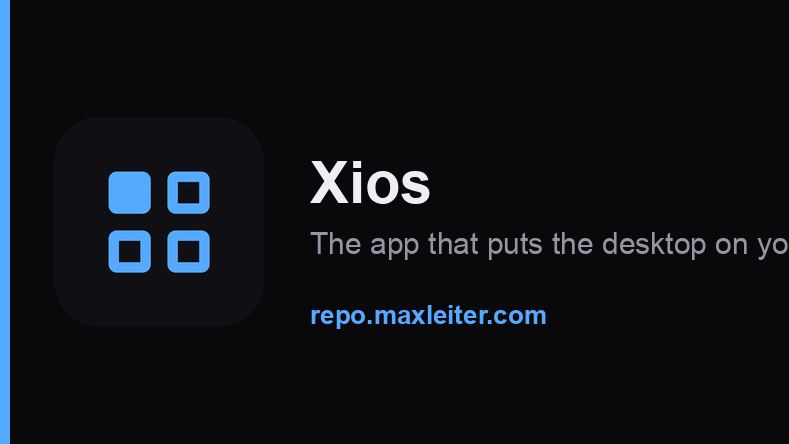
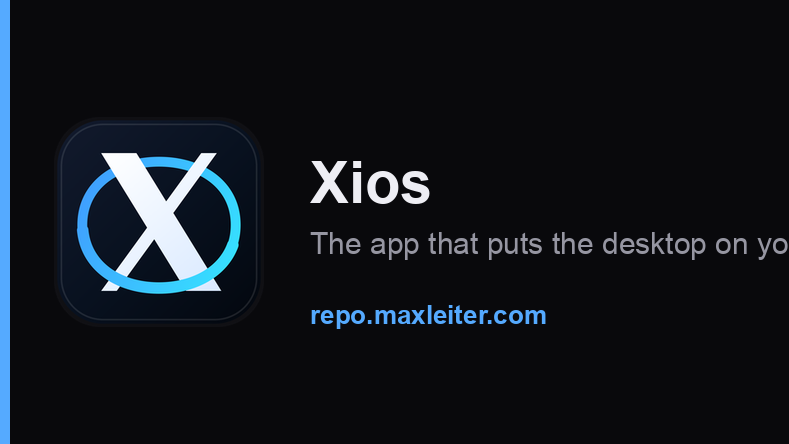
feat: add X11-inspired Xios identity

diff --git a/repo/index.html b/repo/index.html
@@ -12,7 +12,7 @@
 <meta property="og:url" content="https://repo.maxleiter.com/">
 <meta property="og:image" content="https://repo.maxleiter.com/CydiaIcon.png">
 <meta name="twitter:card" content="summary">
-<link rel="icon" href="favicon.ico"><link rel="stylesheet" href="site.css">
+<link rel="icon" href="favicon.ico" sizes="16x16 32x32 48x48"><link rel="icon" href="favicon.svg" type="image/svg+xml"><link rel="icon" href="favicon-32x32.png" sizes="32x32" type="image/png"><link rel="apple-touch-icon" href="apple-touch-icon.png"><link rel="manifest" href="site.webmanifest"><link rel="stylesheet" href="site.css">
 <script>
   (function () {
     try {

diff --git a/bin/lib/make-repo.py b/bin/lib/make-repo.py
@@ -5,7 +5,7 @@ Outputs in repo/:
   Packages, Packages.gz, Release      package index (+ rich fields)
   index.html                          themed landing page
   robots.txt, sitemap.xml             search-engine discovery
-  CydiaIcon.png, favicon.ico          repo icon (from maxleiter.com favicon)
+  favicon.svg/.ico/.png, touch icons  X11-inspired repo identity
   icons/<pkg>.png                     per-package icon
   banners/<pkg>.png                   featured banner
   depictions/<pkg>.json               Sileo native depiction
@@ -25,6 +25,8 @@ Two modes:
                  CI can rebuild and sign the index from a plain checkout while
                  the payloads live immutably in Blob. Leaves repo/Packages and
                  the tracked icons/banners byte-identical.
+  --identity-only regenerate just the favicon, touch/repo icons, and manifest
+                  from x11/apps/Xios/assets/xios-mark.svg.
 
 Both modes prune per-package assets whose package left the index; see
 prune_orphan_assets.
@@ -59,16 +61,17 @@ APP_SECTION_PACKAGES = {
 }
 
 # ── identity / theme ─────────────────────────────────────────────────────────
-BASE_URL    = "https://repo.maxleiter.com"
+BASE_URL    = os.environ.get("XIOS_REPO_BASE_URL", "https://repo.maxleiter.com")
 REPO_NAME   = "Max's Repo"
 ORIGIN      = REPO_NAME
 DESCRIPTION = "Jailbreak packages by Max"
-ARCH        = "iphoneos-arm64"
+ARCH        = "iphoneos-arm64" if PROFILE == "rootless" else "iphoneos-arm"
 PUBLISHER   = "Max Leiter <maxwell.leiter@gmail.com>"
 ACCENT      = (85, 170, 255)      # #55aaff (maxleiter.com brand blue)
 ACCENT_HEX  = "#55aaff"
 ICON_BG     = (16, 16, 20)
-FAVICON_SRC = os.path.expanduser("~/Documents/maxleiter.com/public/favicons")
+REPO_ICON_SOURCE = os.path.abspath(os.path.join(
+    HERE, "..", "..", "x11", "apps", "Xios", "assets", "xios-mark.svg"))
 
 try:
     from PIL import Image, ImageDraw, ImageFont
@@ -491,8 +494,10 @@ RSVG_CONVERT = shutil.which("rsvg-convert")
 # dark rounded tile the generated glyphs use, so real + generated icons sit
 # together without looking mismatched.
 def _load_logo_source(pid, px):
-    for ext in ("svg", "png"):
-        path = os.path.join(LOGO_SOURCES, f"{pid}.{ext}")
+    candidates = ([(REPO_ICON_SOURCE, "svg")] if pid == "com.max.xios" else
+                  [(os.path.join(LOGO_SOURCES, f"{pid}.{ext}"), ext)
+                   for ext in ("svg", "png")])
+    for path, ext in candidates:
         if not os.path.exists(path):
             continue
         if ext == "svg":
@@ -506,6 +511,71 @@ def _load_logo_source(pid, px):
             return Image.open(io.BytesIO(out.stdout)).convert("RGBA")
         return Image.open(path).convert("RGBA")
     return None
+
+def _render_svg(path, px):
+    if not HAVE_PIL or not RSVG_CONVERT or not os.path.exists(path):
+        return None
+    out = subprocess.run(
+        [RSVG_CONVERT, "-w", str(px), "-h", str(px), path],
+        stdout=subprocess.PIPE, stderr=subprocess.DEVNULL)
+    if out.returncode != 0:
+        return None
+    return Image.open(io.BytesIO(out.stdout)).convert("RGBA")
+
+def generate_repo_identity(render_rasters=False):
+    """Install the vector identity and, on authoring hosts, its raster family."""
+    shutil.copyfile(REPO_ICON_SOURCE, os.path.join(REPO, "favicon.svg"))
+    manifest = {
+        "name": REPO_NAME,
+        "short_name": "Xios Repo",
+        "icons": [
+            {"src": "icon-192.png", "sizes": "192x192", "type": "image/png"},
+            {"src": "icon-512.png", "sizes": "512x512", "type": "image/png"},
+        ],
+        "theme_color": "#0a0a0b",
+        "background_color": "#0a0a0b",
+        "display": "standalone",
+    }
+    with open(os.path.join(REPO, "site.webmanifest"), "w") as f:
+        json.dump(manifest, f, indent=2)
+        f.write("\n")
+
+    if not render_rasters:
+        return
+    master = _render_svg(REPO_ICON_SOURCE, 512)
+    if master is None:
+        raise SystemExit("ERROR: repo identity raster generation needs Pillow and rsvg-convert")
+    for filename, size in (
+        ("favicon-16x16.png", 16),
+        ("favicon-32x32.png", 32),
+        ("apple-touch-icon.png", 180),
+        ("CydiaIcon.png", 180),
+        ("icon-192.png", 192),
+        ("icon-512.png", 512),
+    ):
+        master.resize((size, size), Image.LANCZOS).save(os.path.join(REPO, filename))
+    master.save(os.path.join(REPO, "favicon.ico"), format="ICO",
+                sizes=[(16, 16), (32, 32), (48, 48)])
+
+    # Keep the package-manager depiction in the same identity family as the
+    # actual Home Screen app, rather than falling back to the Desktop glyph.
+    os.makedirs(os.path.join(REPO, "icons"), exist_ok=True)
+    os.makedirs(os.path.join(REPO, "banners"), exist_ok=True)
+    xios_icon = package_icon("com.max.xios", "Desktop", 256)
+    xios_icon.save(os.path.join(REPO, "icons", "com.max.xios.png"))
+    xios_ctrl = {}
+    packages_path = os.path.join(REPO, "Packages")
+    if os.path.exists(packages_path):
+        _, ctrls = parse_packages_index(packages_path)
+        xios_ctrl = next((c for c in ctrls if c.get("Package") == "com.max.xios"), {})
+    xios_meta = load_meta("com.max.xios")
+    make_banner(
+        os.path.join(REPO, "banners", "com.max.xios.png"),
+        package_name(xios_ctrl, xios_meta) if xios_ctrl else "Xios",
+        xios_meta.get("tagline", xios_ctrl.get(
+            "Description", "The app that puts the desktop on your screen")),
+        xios_icon,
+    )
 
 def package_icon(pid, section, px=256):
     s = 4; S = px * s
@@ -719,7 +789,7 @@ def html_depiction(ctrl, meta, size):
     return f"""<!doctype html><html lang="en"><head><meta charset="utf-8">
 <meta name="viewport" content="width=device-width, initial-scale=1">
 <meta name="theme-color" content="#000000">
-{seo_head(ctrl, meta)}<link rel="icon" href="../favicon.ico">{head_links("../")}{HEAD_JS}</head>
+{seo_head(ctrl, meta)}{favicon_links("../")}{head_links("../")}{HEAD_JS}</head>
 <body><div class="wrap">
   <a class="back" href="../index.html">{BACK_SVG}<span>{html.escape(ORIGIN)}</span></a>
   <header class="masthead"><img src="../icons/{pid}.png" alt="">
@@ -735,6 +805,15 @@ def head_links(prefix=""):
     # inlined into every page. Fonts are self-hosted via @font-face inside it, so the
     # site makes no third-party (Google Fonts) requests.
     return f'<link rel="stylesheet" href="{prefix}site.css">'
+
+def favicon_links(prefix=""):
+    return (
+        f'<link rel="icon" href="{prefix}favicon.ico" sizes="16x16 32x32 48x48">'
+        f'<link rel="icon" href="{prefix}favicon.svg" type="image/svg+xml">'
+        f'<link rel="icon" href="{prefix}favicon-32x32.png" sizes="32x32" type="image/png">'
+        f'<link rel="apple-touch-icon" href="{prefix}apple-touch-icon.png">'
+        f'<link rel="manifest" href="{prefix}site.webmanifest">'
+    )
 
 # Written once to repo/site.css by main(); linked by index + every depiction.
 # @font-face url() resolves relative to THIS file (repo/site.css) -> repo/fonts/.
@@ -1264,7 +1343,7 @@ def write_index(pkgs):
 <meta property="og:url" content="{BASE_URL}/">
 <meta property="og:image" content="{BASE_URL}/CydiaIcon.png">
 <meta name="twitter:card" content="summary">
-<link rel="icon" href="favicon.ico">{head_links("")}{HEAD_JS}</head>
+{favicon_links("")}{head_links("")}{HEAD_JS}</head>
 <body><div class="wrap">
   <header class="mast reveal" style="--i:0">
     <div class="mast-top"><a class="micro" href="https://maxleiter.com">maxleiter.com</a>{THEME_PICKER}</div>
@@ -1345,8 +1424,14 @@ def main():
     ap.add_argument("--from-index", action="store_true",
                     help="regenerate only what derives from the committed "
                          "repo/Packages; needs no .deb payloads")
+    ap.add_argument("--identity-only", action="store_true",
+                    help="regenerate only the repo favicon, touch icon, and web manifest")
     args = ap.parse_args()
     from_index = args.from_index
+
+    if args.identity_only:
+        generate_repo_identity(render_rasters=True)
+        return
 
     for d in ("icons", "banners", "depictions"):
         os.makedirs(os.path.join(REPO, d), exist_ok=True)
@@ -1354,15 +1439,10 @@ def main():
     # one shared, cacheable stylesheet for index + all depictions (was inlined per page)
     open(os.path.join(REPO, "site.css"), "w").write(SITE_CSS)
 
-    # repo icon from the website favicon. Authoring-host only: FAVICON_SRC is a
-    # path in the maxleiter.com checkout, and CydiaIcon.png/favicon.ico are
-    # tracked, so a --from-index run just uses what the checkout already has.
-    if not from_index and os.path.isdir(FAVICON_SRC):
-        shutil.copyfile(os.path.join(FAVICON_SRC, "apple-touch-icon.png"),
-                        os.path.join(REPO, "CydiaIcon.png"))
-        ico = os.path.join(FAVICON_SRC, "favicon.ico")
-        if os.path.exists(ico):
-            shutil.copyfile(ico, os.path.join(REPO, "favicon.ico"))
+    # The vector source and manifest are cheap and deterministic. Raster assets
+    # stay byte-identical in --from-index/CI runs, but authoring runs refresh the
+    # complete icon family from the checked-in source.
+    generate_repo_identity(render_rasters=not from_index)
 
     pkgs, stanzas, featured_by_pid = [], [], {}
 

diff --git a/x11/apps/Xios/make-icon.py b/x11/apps/Xios/make-icon.py
@@ -1,95 +1,31 @@
 #!/usr/bin/env python3
-"""Generate the Xios app icon into the asset catalog.
+"""Generate the Xios app icon from the shared vector identity.
 
 Run via the Pillow venv:
   .repo-venv/bin/python x11/apps/Xios/make-icon.py
+
+Requires rsvg-convert. The rendered SVG has transparent outer corners for the
+web, but Apple app icons may not contain alpha, so this generator flattens it
+onto the mark's dark background before writing the asset catalog.
 """
-import os, json
-from PIL import Image, ImageDraw, ImageFilter
+import io, json, os, shutil, subprocess
+from PIL import Image
 
 HERE = os.path.dirname(os.path.abspath(__file__))
 OUT = os.path.join(HERE, "Resources", "Assets.xcassets", "AppIcon.appiconset")
+SOURCE = os.path.join(HERE, "assets", "xios-mark.svg")
 os.makedirs(OUT, exist_ok=True)
 
 S = 1024
-SS = S * 4
-ACCENT = (61, 158, 255)
-ACCENT_2 = (55, 226, 255)
-SHADOW = (2, 7, 16)
-BG_TOP = (19, 25, 42)
-BG_MID = (9, 15, 28)
-BG_BOT = (4, 6, 12)
-
-def lerp(a, b, t): return tuple(int(a[i]*(1-t) + b[i]*t) for i in range(3))
-
-img = Image.new("RGB", (SS, SS), BG_BOT)
-d = ImageDraw.Draw(img)
-for y in range(SS):
-    t = y / (SS - 1)
-    col = lerp(BG_TOP, BG_MID, t / 0.48) if t < 0.48 else lerp(BG_MID, BG_BOT, (t - 0.48) / 0.52)
-    d.line([(0, y), (SS, y)], fill=col)
-
-grid = Image.new("RGBA", (SS, SS), (0, 0, 0, 0))
-gd = ImageDraw.Draw(grid)
-for x in range(int(SS * 0.14), int(SS * 0.86), int(SS * 0.115)):
-    gd.line([(x, int(SS * 0.20)), (x, int(SS * 0.80))], fill=(76, 154, 255, 22), width=max(1, SS // 420))
-for y in range(int(SS * 0.20), int(SS * 0.82), int(SS * 0.115)):
-    gd.line([(int(SS * 0.14), y), (int(SS * 0.86), y)], fill=(76, 154, 255, 18), width=max(1, SS // 420))
-grid = grid.filter(ImageFilter.GaussianBlur(SS * 0.0015))
-img.paste(grid, (0, 0), grid)
-
-halo = Image.new("RGBA", (SS, SS), (0, 0, 0, 0))
-hd = ImageDraw.Draw(halo)
-hd.ellipse([SS * 0.18, SS * 0.12, SS * 0.82, SS * 0.88], fill=(36, 154, 255, 80))
-halo = halo.filter(ImageFilter.GaussianBlur(SS * 0.115))
-img.paste(Image.new("RGB", (SS, SS), (38, 137, 255)), (0, 0), halo)
-
-m = SS * 0.235
-TL, BR = (m, m * 1.10), (SS - m, SS - m * 1.10)
-TR, BL = (SS - m, m * 1.10), (m, SS - m * 1.10)
-
-def stroke(draw, a, b, width, color):
-    draw.line([a, b], fill=color, width=width)
-    r = width // 2
-    for (x, y) in (a, b):
-        draw.ellipse([x - r, y - r, x + r, y + r], fill=color)
-
-def shifted(p, dx, dy):
-    return (p[0] + dx, p[1] + dy)
-
-depth = Image.new("RGBA", (SS, SS), (0, 0, 0, 0))
-dd = ImageDraw.Draw(depth)
-for off, alpha in ((SS * 0.034, 95), (SS * 0.021, 135), (SS * 0.010, 165)):
-    stroke(dd, shifted(TL, off, off), shifted(BR, off, off), int(SS * 0.142), SHADOW + (alpha,))
-    stroke(dd, shifted(TR, off, off), shifted(BL, off, off), int(SS * 0.142), SHADOW + (alpha,))
-depth = depth.filter(ImageFilter.GaussianBlur(SS * 0.010))
-img.paste(depth, (0, 0), depth)
-
-glow = Image.new("RGBA", (SS, SS), (0, 0, 0, 0))
-gd = ImageDraw.Draw(glow)
-stroke(gd, TL, BR, int(SS * 0.185), ACCENT + (255,))
-stroke(gd, TR, BL, int(SS * 0.185), ACCENT_2 + (255,))
-glow = glow.filter(ImageFilter.GaussianBlur(SS * 0.032))
-glow.putalpha(glow.getchannel("A").point(lambda p: int(p * 0.55)))
-img.paste(Image.new("RGB", (SS, SS), ACCENT), (0, 0), glow)
-
-ov = Image.new("RGBA", (SS, SS), (0, 0, 0, 0))
-od = ImageDraw.Draw(ov)
-stroke(od, TL, BR, int(SS * 0.142), ACCENT + (255,))
-stroke(od, TR, BL, int(SS * 0.142), ACCENT_2 + (255,))
-img.paste(ov, (0, 0), ov)
-
-rim = Image.new("RGBA", (SS, SS), (0, 0, 0, 0))
-rd = ImageDraw.Draw(rim)
-rd.rounded_rectangle([SS * 0.035, SS * 0.035, SS * 0.965, SS * 0.965],
-                     radius=int(SS * 0.215), outline=(255, 255, 255, 26),
-                     width=max(1, SS // 155))
-rd.rounded_rectangle([SS * 0.055, SS * 0.055, SS * 0.945, SS * 0.945],
-                     radius=int(SS * 0.195), outline=(0, 0, 0, 90),
-                     width=max(1, SS // 105))
-img.paste(rim, (0, 0), rim)
-
-icon = img.resize((S, S), Image.LANCZOS)
+rsvg_convert = shutil.which("rsvg-convert")
+if not rsvg_convert:
+    raise SystemExit("ERROR: generating the Xios app icon needs rsvg-convert")
+rendered = subprocess.run(
+    [rsvg_convert, "-w", str(S), "-h", str(S), SOURCE],
+    stdout=subprocess.PIPE, stderr=subprocess.PIPE, check=True)
+mark = Image.open(io.BytesIO(rendered.stdout)).convert("RGBA")
+icon = Image.new("RGB", (S, S), (3, 7, 14))
+icon.paste(mark, (0, 0), mark)
 icon.save(os.path.join(OUT, "icon-1024.png"))
 
 with open(os.path.join(OUT, "Contents.json"), "w") as f:
